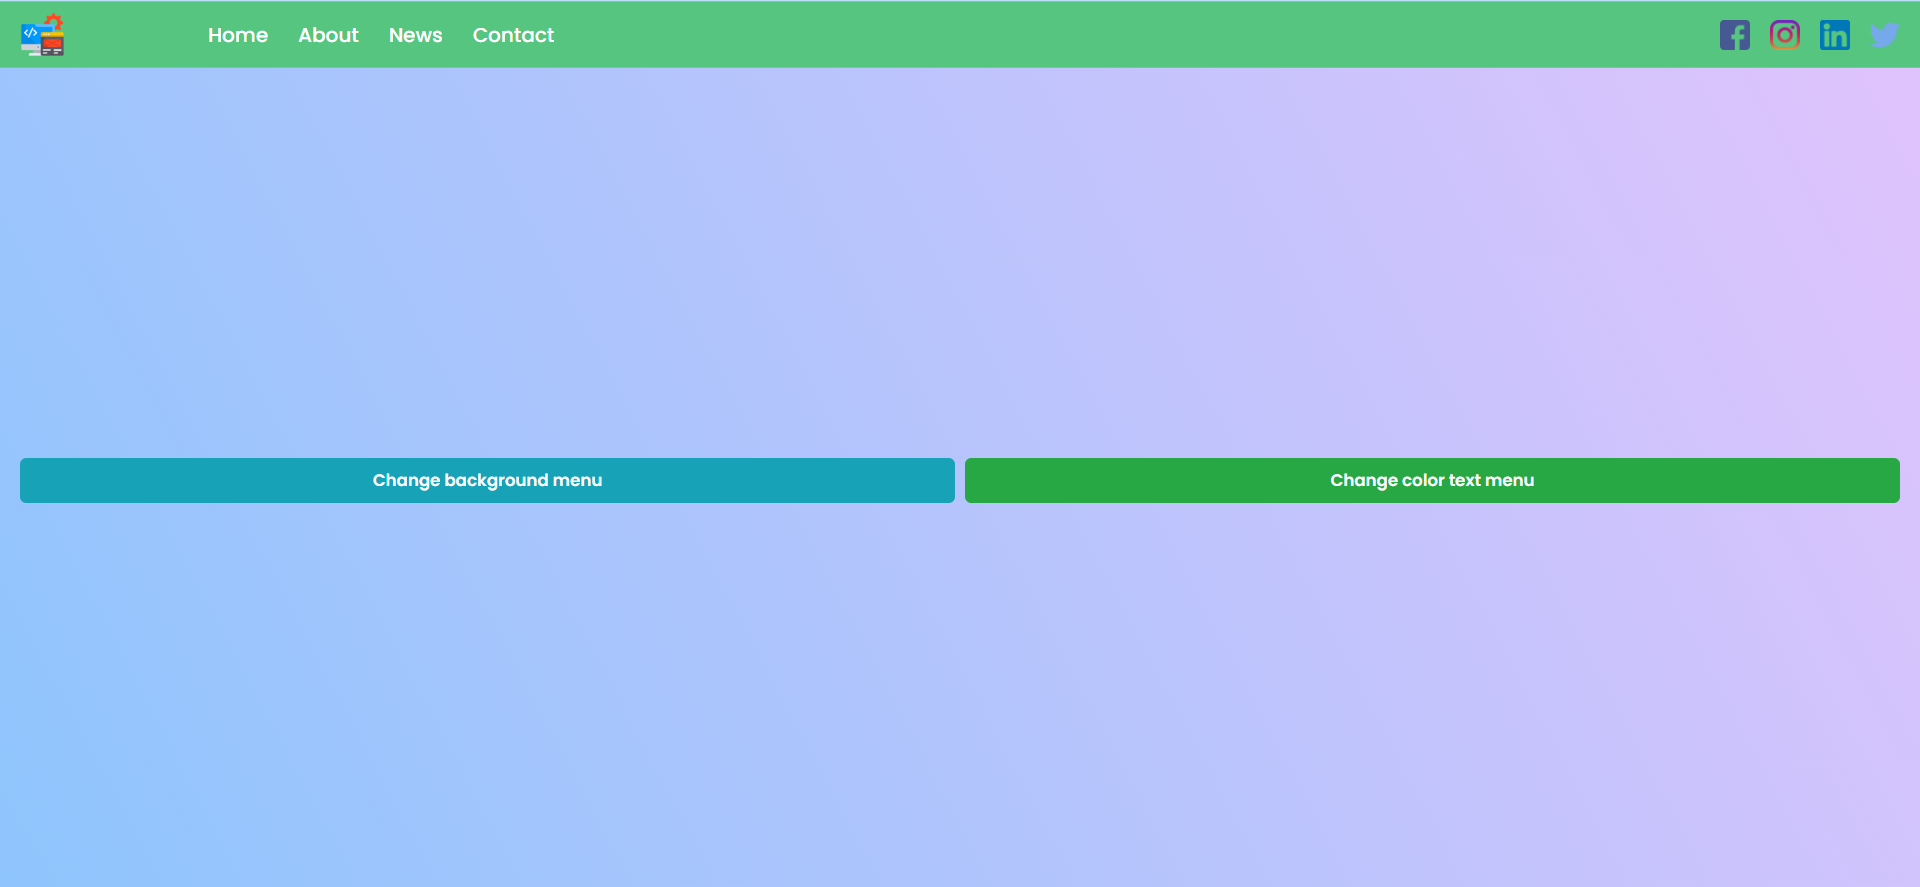
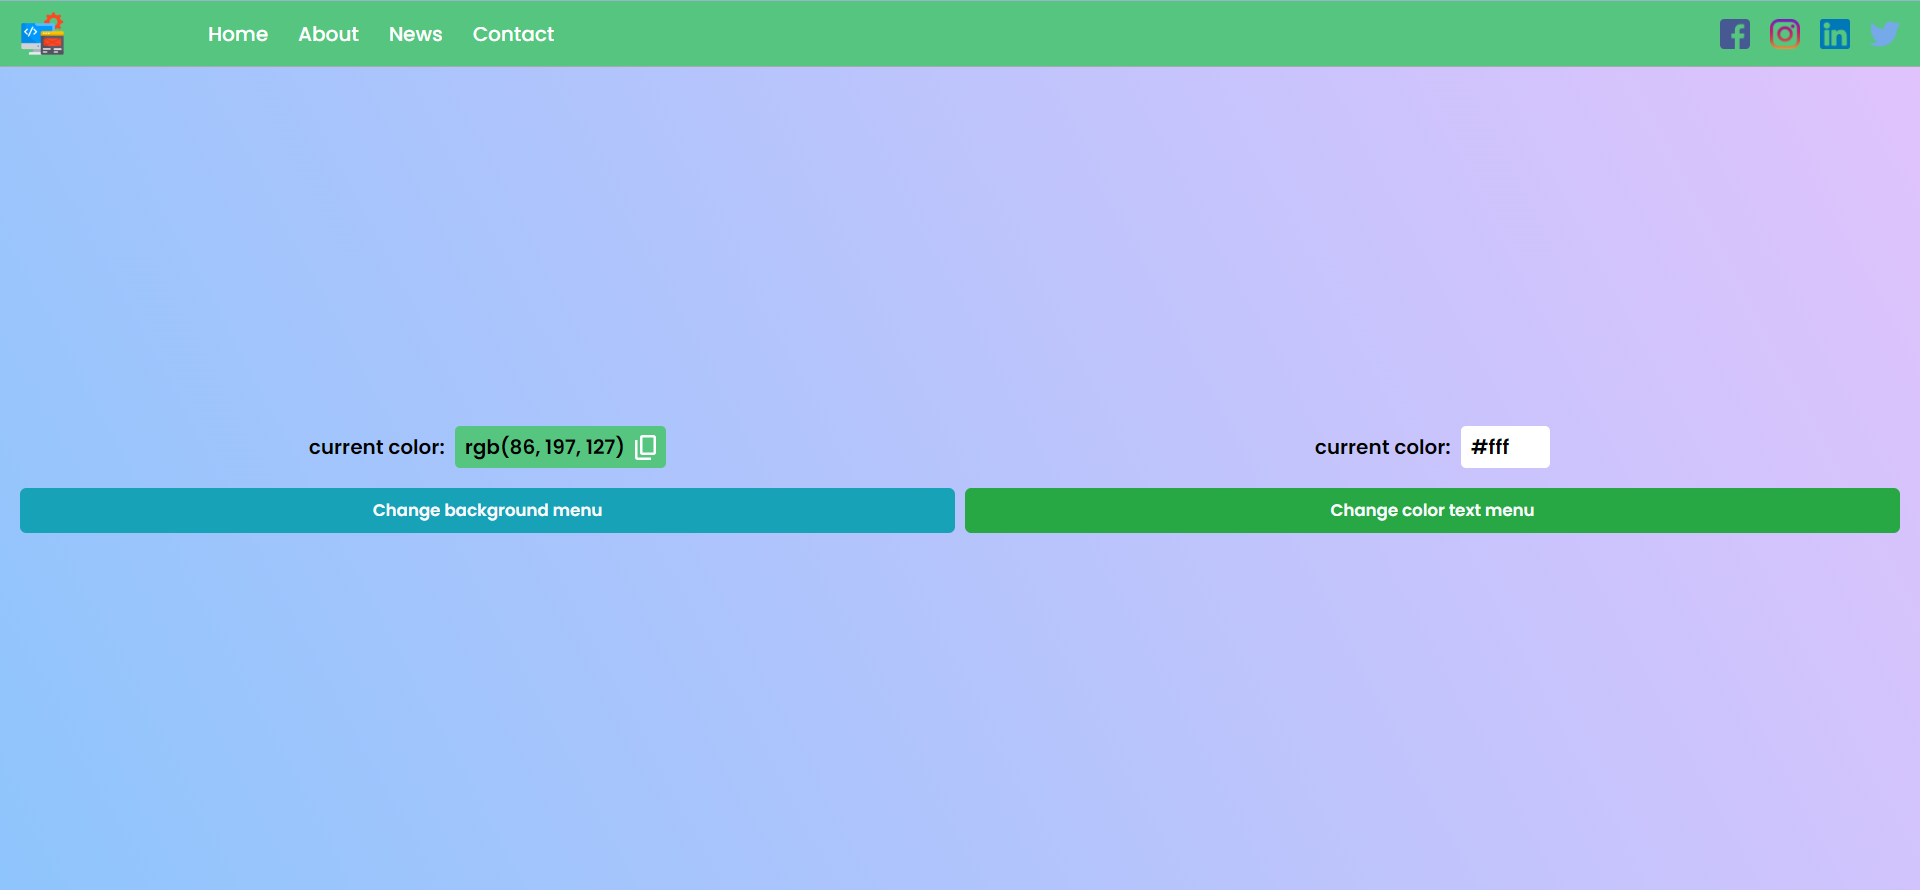
feat: copy color added and README update

diff --git a/public/js/menu.js b/public/js/menu.js
@@ -7,8 +7,16 @@ addEventListener('DOMContentLoaded', () => {
     const menu = document.querySelector('.menu');
     const menuOptionsMovil = document.querySelector('.menu-options-collapse');
     const menuOptionsWeb = document.querySelector('.menu-options');
+    const bgColor = document.querySelector('.bg');
+    const textColor = document.querySelector('.textColor');
+    const iconCopyBG = document.querySelector('#background');
+    const iconCopyC = document.querySelector('#text');
 
     let toogle = false;
+    let colorBg = 'rgb(86, 197, 127)';
+    let textC = '#fff';
+    bgColor.parentElement.style.background = colorBg;
+    textColor.parentElement.style.background = textC;
 
     const randomColor = () =>{
         const color = "#xxxxxx".replace(/x/g, y=>(Math.random()*16|0).toString(16));
@@ -23,17 +31,29 @@ addEventListener('DOMContentLoaded', () => {
     }
 
     const changeBacground = () => {
-        menu.style.backgroundColor = randomColor();
+        const color = randomColor();
+        menu.style.backgroundColor = color;
+        bgColor.textContent = color;
+        bgColor.parentElement.style.background = color;
+        colorBg = color;
     }
 
     const changeTextColor = () => {
-        // console.log(menuOptionsMovil.style);
-        menuOptionsMovil.style.color = randomColor();
-        menuOptionsWeb.style.color = randomColor();
+        const color = randomColor();
+        menuOptionsMovil.style.color = color;
+        menuOptionsWeb.style.color = color;
+        textColor.textContent = color;
+        textColor.parentElement.style.background = color;
+        textC = color;
+    }
+
+    const copyColor = (color) => {
+        navigator.clipboard.writeText(color);
     }
 
     iconMenuMovil.addEventListener('click', toggleMenu);
     btnBackground.addEventListener('click', changeBacground);
     btnColor.addEventListener('click', changeTextColor);
-    
+    iconCopyBG.addEventListener('click', () => copyColor(colorBg));
+    iconCopyC.addEventListener('click', () => copyColor (textC));
 });

diff --git a/index.html b/index.html
@@ -48,8 +48,34 @@
     <!-- content -->
     <div class="content-page">
         <div class="actions">
-            <button class="custom-btn primary btn-bg">Change background menu</button>
-            <button class="custom-btn secondary btn-color">Change color text menu</button>
+            <div class="action">
+                <div class="current-color">
+                    current color: 
+                    <span class="color">
+                        <div class="bg">
+                            rgb(86, 197, 127)
+                        </div>
+                        <div class="copy-color">
+                            <img src="./assets/svg/icon-copy.svg" id="background" alt="icon-copy">
+                        </div>
+                    </span>
+                </div>
+                <button class="custom-btn primary btn-bg">Change background menu</button>
+            </div>
+            <div class="action">
+                <div class="current-color">
+                    current color: 
+                    <span class="color">
+                        <div class="textColor">
+                            #fff
+                        </div>
+                        <div class="copy-color">
+                            <img src="./assets/svg/icon-copy.svg" id="text" alt="icon-copy">
+                        </div>
+                    </span>
+                </div>
+                <button class="custom-btn secondary btn-color">Change color text menu</button>
+            </div>
         </div>
     </div>
 </body>

diff --git a/src/scss/main.scss b/src/scss/main.scss
@@ -127,6 +127,12 @@
     }
 }
 
+@media screen and (min-width: 768px){
+    .menu-collapse{
+        display: none !important;
+    }
+}
+
 // start  content page
 .content-page{
     height: 92.5vh;
@@ -142,6 +148,7 @@
     font-weight: 700;
     border-radius: 5px;
     cursor: pointer;
+    width: 100%;
     &:hover{
         opacity: 0.8;
     }
@@ -161,4 +168,29 @@
     gap: 8px;
     align-items: center;
     height: 100%;
+}
+
+// colors
+.current-color{
+    font-family: 'Poppins', sans-serif;
+    font-weight: 700;
+    text-align: center;
+    font-size: 16px;
+    margin-bottom: 16px;
+    display: flex;
+    align-items: center;
+    justify-content: center;
+    gap: 8px;
+    .copy-color{
+        display: flex;
+        align-items: center;
+        justify-content: center;
+        cursor: pointer;
+    }
+    .color{
+        padding: 5px 8px;
+        border-radius: 4px;
+        display: flex;
+        gap: 8px;
+    }
 }

diff --git a/public/css/main.css b/public/css/main.css
@@ -122,6 +122,11 @@
     grid-template-columns: 50% 50%;
   }
 }
+@media screen and (min-width: 768px) {
+  .menu-collapse {
+    display: none !important;
+  }
+}
 .content-page {
   height: 92.5vh;
   background-color: #8EC5FC;
@@ -136,6 +141,7 @@
   font-weight: 700;
   border-radius: 5px;
   cursor: pointer;
+  width: 100%;
 }
 .custom-btn:hover {
   opacity: 0.8;
@@ -157,6 +163,30 @@
   gap: 8px;
   align-items: center;
   height: 100%;
+}
+
+.current-color {
+  font-family: "Poppins", sans-serif;
+  font-weight: 700;
+  text-align: center;
+  font-size: 16px;
+  margin-bottom: 16px;
+  display: flex;
+  align-items: center;
+  justify-content: center;
+  gap: 8px;
+}
+.current-color .copy-color {
+  display: flex;
+  align-items: center;
+  justify-content: center;
+  cursor: pointer;
+}
+.current-color .color {
+  padding: 5px 8px;
+  border-radius: 4px;
+  display: flex;
+  gap: 8px;
 }
 
 /*# sourceMappingURL=main.css.map */

diff --git a/README.md b/README.md
@@ -7,4 +7,3 @@
 ![](./assets/4.png)
 # Change color menu
 ![](./assets/5.png)
-![](./assets/6.png)
